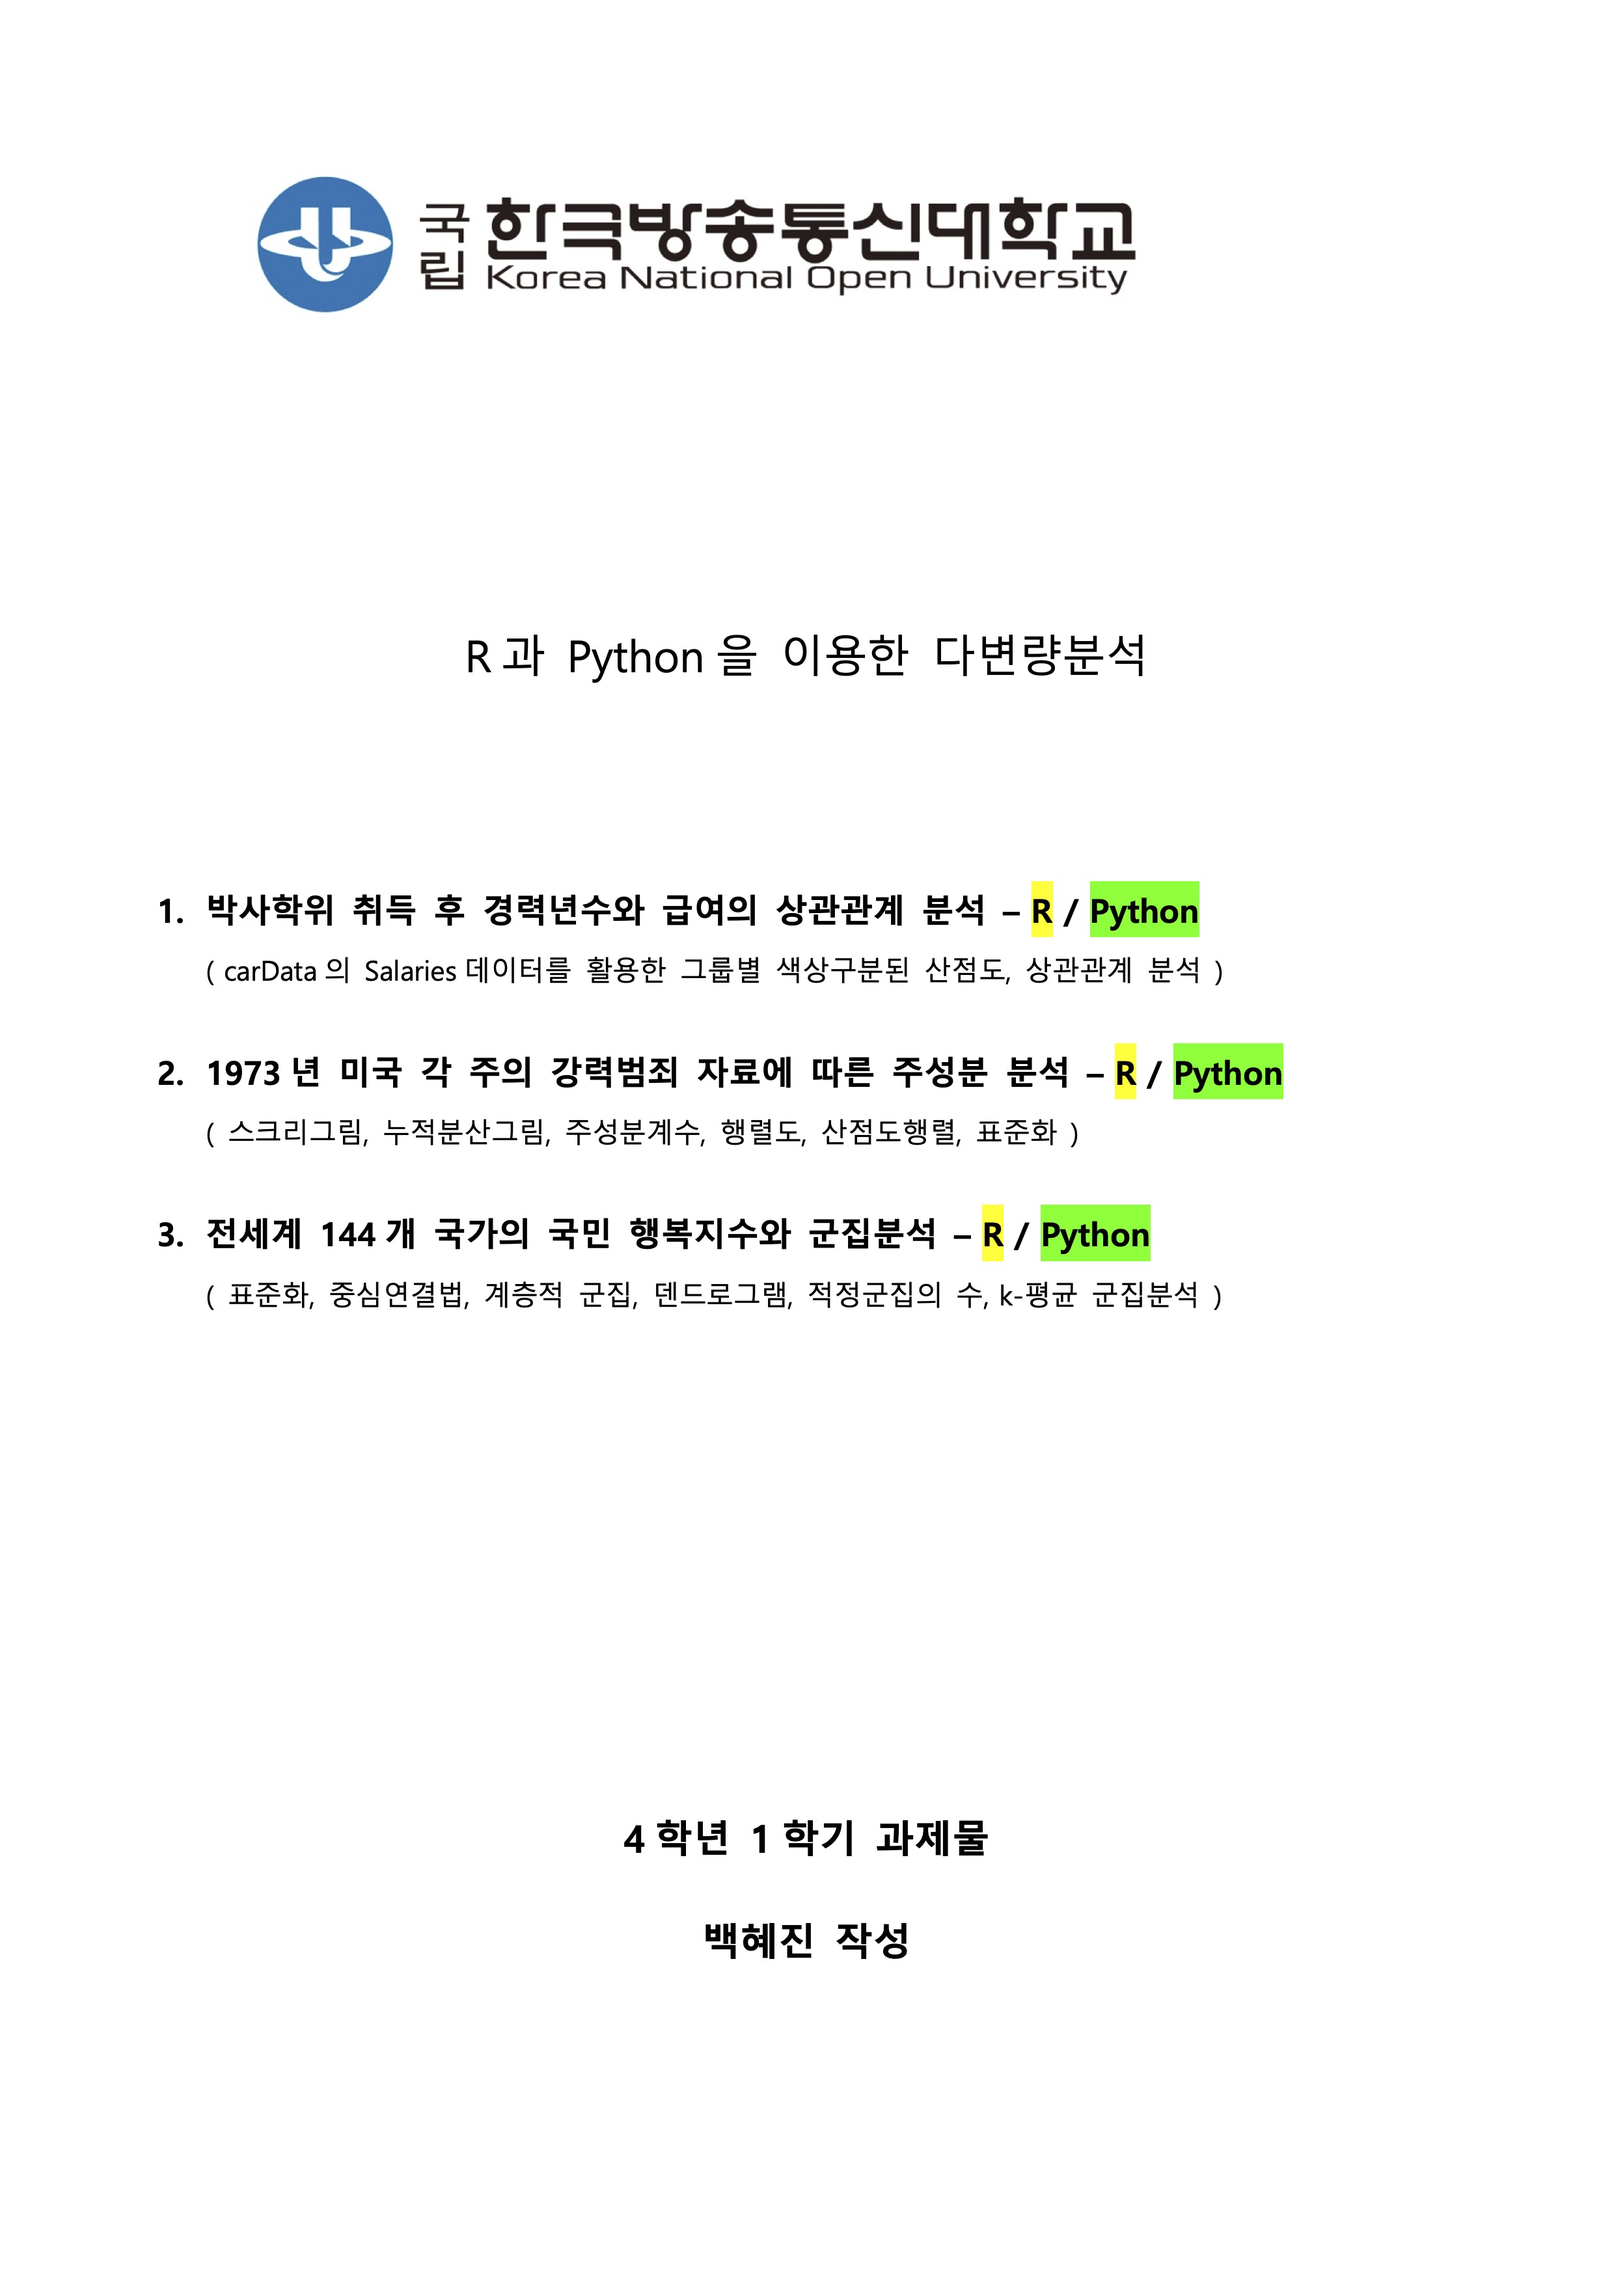
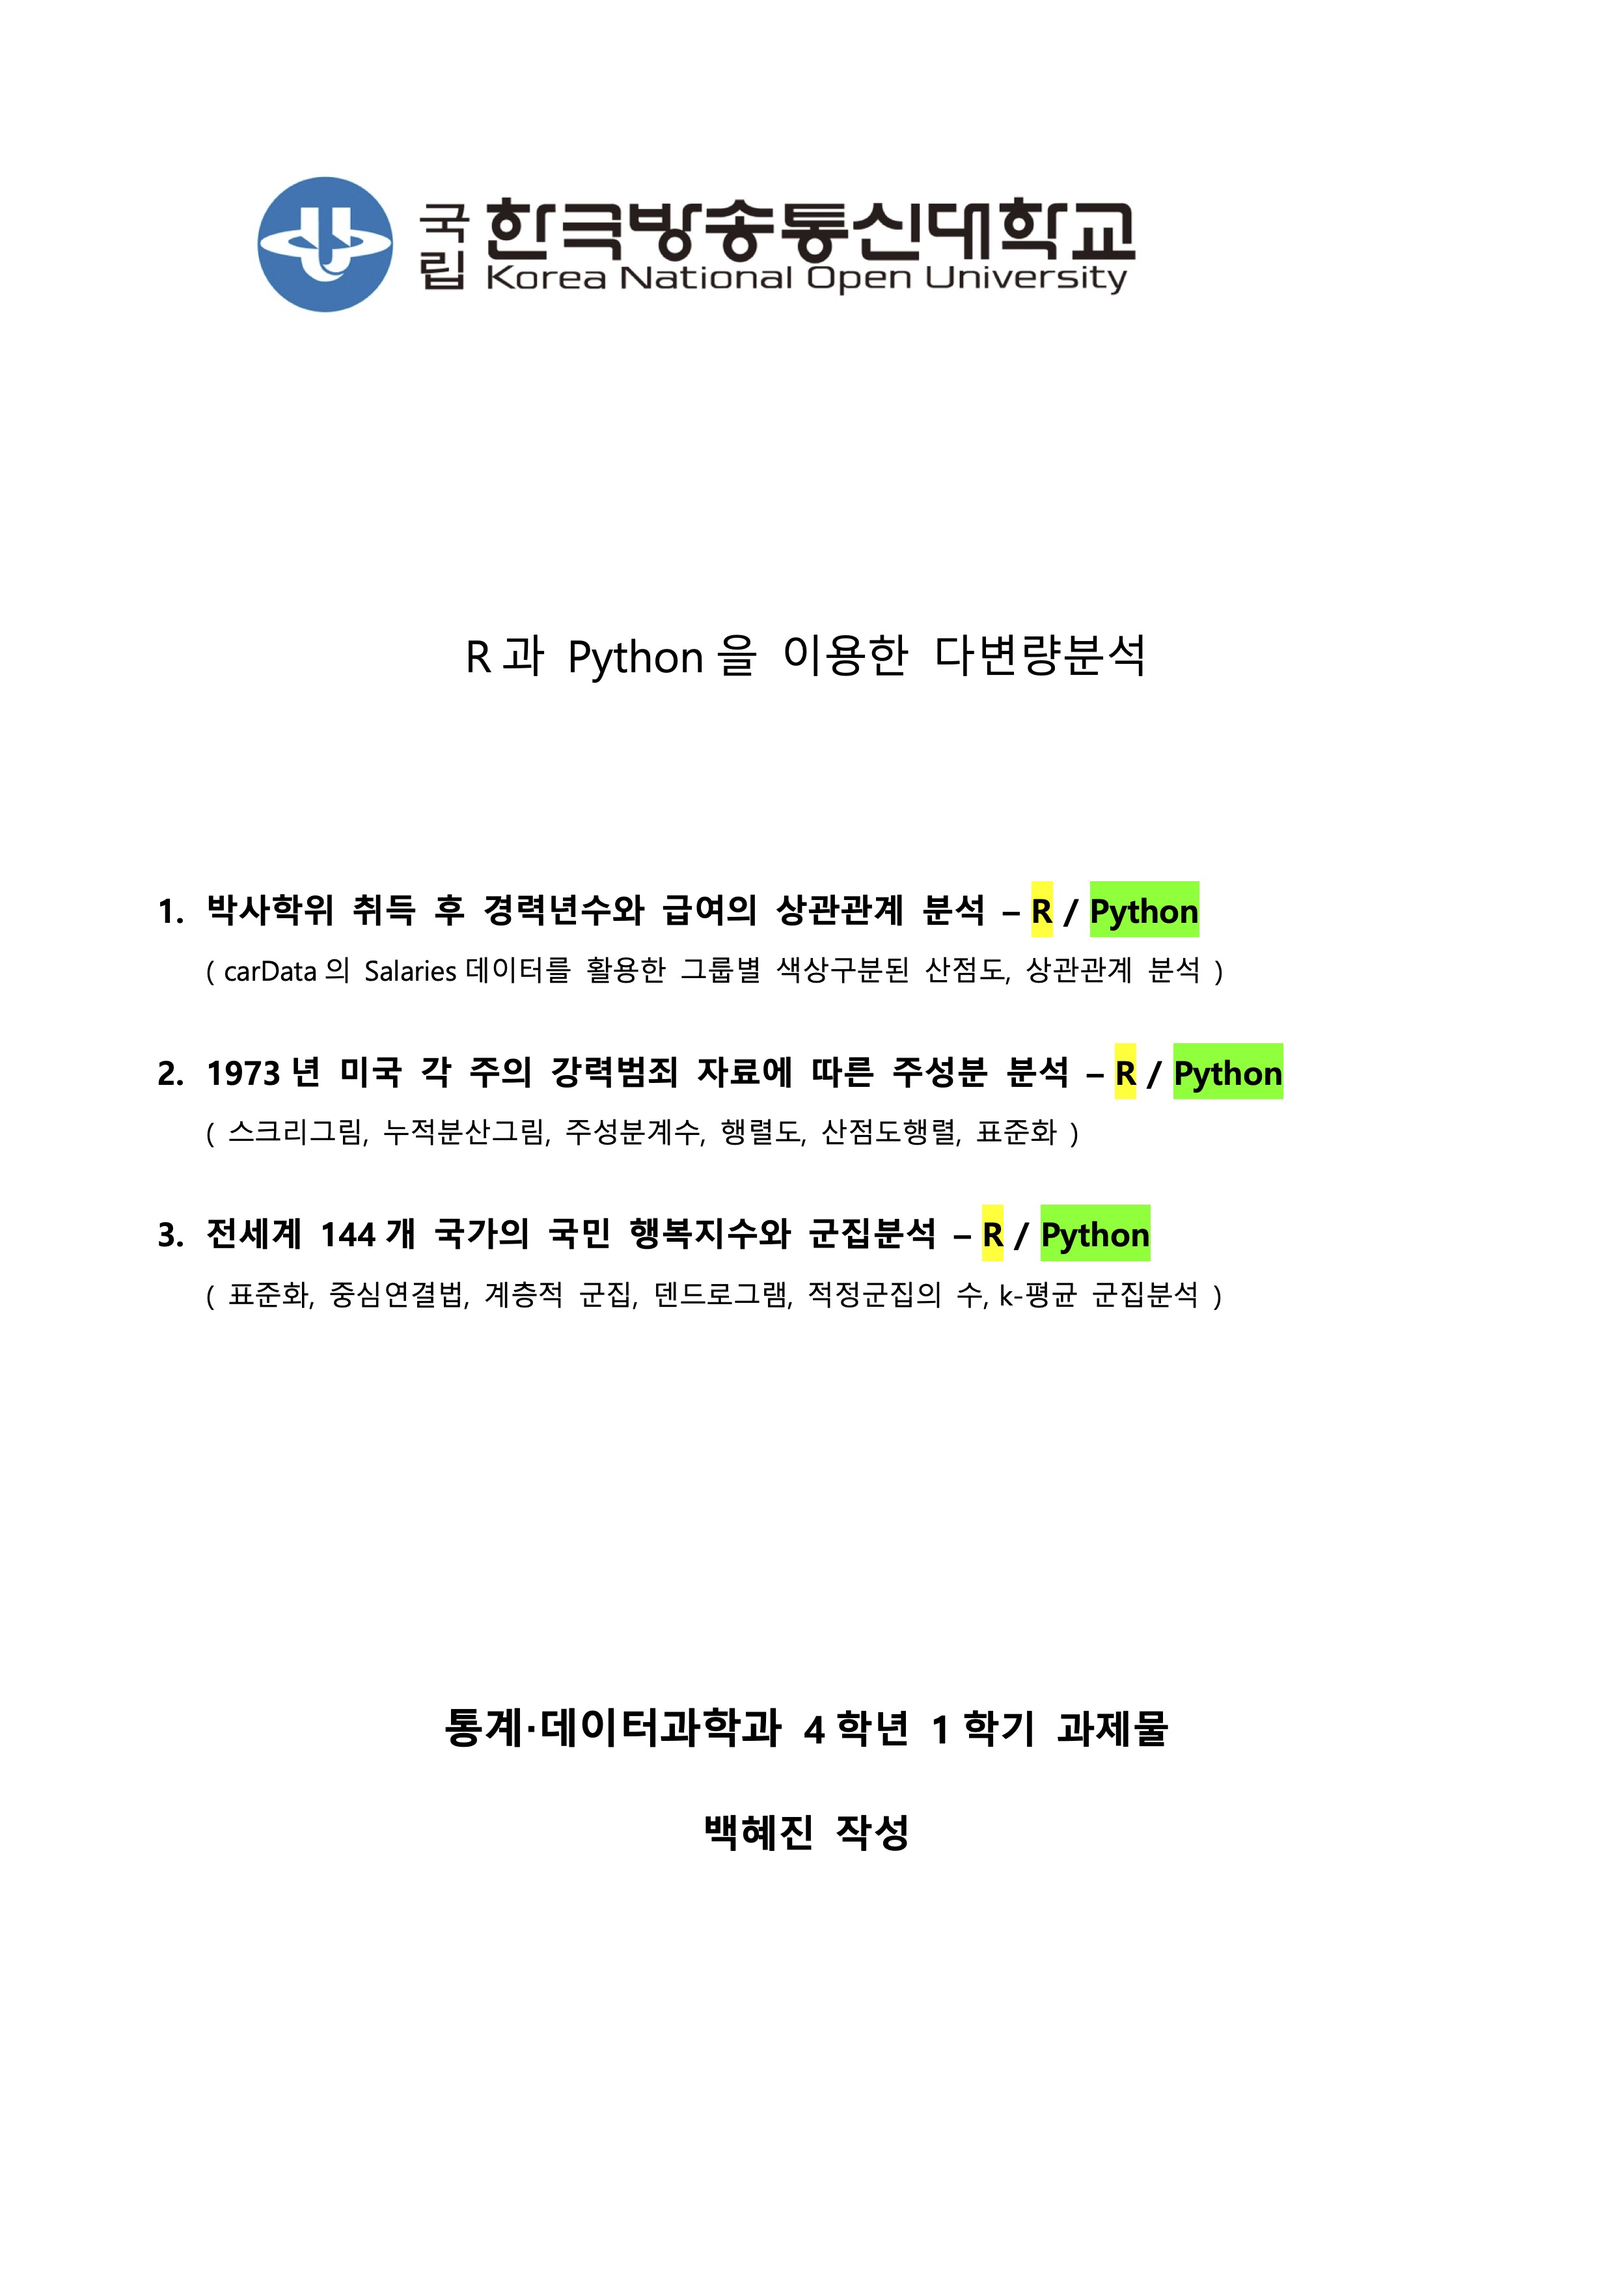
update

Changed region(s): [[0.2794, 0.7457, 0.7141, 0.8079], [0.4347, 0.8389, 0.5589, 0.87]]

diff --git a/index.html b/index.html
@@ -120,10 +120,6 @@
               새로운 고객만족을 위하여
             </h3> -->
             <!-- <img src="assets/me/hyejin.JPG" style="width: 12rem; height: auto;" alt="..."> -->
-
-
-
-
           </div>
           <hr>
           <br>
@@ -133,6 +129,7 @@
             <br>현재 법무법인에서 법률 데이터를 생성하고 처리하며, 고객서비스를 개선하는 업무를 하고있습니다.
             <br>업무 자동화를 넘어 AI 솔루션을 설계하고 기능을 구현하여 새로운 고객 서비스를 제공하고자 합니다.
           </p>
+          
           <br>
           <br>
           <h4  style="color:black" >1. 데이터 민주화(자동화)</h4>
@@ -141,6 +138,7 @@
           <h4  style="color:black">2. 데이터 올라운더</h4>
           <p class="introduce_me" >DW부터 BI 그리고 AI 까지 개선을 위한 INSIGHT를 발굴하기 위해, 무엇이든지 특정 역할에 제한을 두지 않고 활동합니다.</p>
         </div>
+
     </div>
     </section>
     <hr class="m-0" /> 
@@ -412,7 +410,7 @@
                   <strong>R과 Python</strong>
                 </td>
                 <td class="td-content">
-                  [통계·데이터과학과] R과 Python을 이용한 다변량분석 과제물
+                  [통계·데이터과학과] R과 Python을 이용한 다변량분석
                   <div class="d-flex flex-shrink-0 align-items-center">
                     <a href="#knou_1">
                       <strong>자세히 보기</strong>
@@ -749,7 +747,11 @@
             </span>
           </div>
           <br />
-          <p>2024년 4학년 1학기 제출한 개인과제물 / 30점(만점) </p>
+          <div class="d-flex flex-shrink-0 align-items-center">
+            <a href="https://velog.io/@hyejinbeck/R%EA%B3%BC-Python-%EB%8B%A4%EB%B3%80%EB%9F%89%EB%B6%84%EC%84%9D-%EB%B0%95%EC%82%AC%ED%95%99%EC%9C%84-%EC%B7%A8%EB%93%9D-%ED%9B%84%EC%9D%98-%EA%B2%BD%EB%A0%A5%EB%85%84%EC%88%98%EC%99%80-%EA%B8%89%EC%97%AC%EC%9D%98-%EA%B4%80%EA%B3%84%EC%84%B1-%EC%82%B0%EC%A0%90%EB%8F%84-%EA%B7%B8%EB%A3%B9%EB%B3%84-rank-%EC%82%B0%EC%A0%90%EB%8F%84">
+              <strong>과정 블로그</strong>
+            </a>
+          </div>
         </div>
       </section>
       <hr class="m-0" />
@@ -759,14 +761,12 @@
       
       <!-- Resume-->
       <section class="resume-section" id="resume">
-        <div class="resume-section-content">
-          <span>
-            <div>
-              <h1 style="color: black"><strong>감사합니다.</strong></h1>
-            </div>
+        <div class="resume-section-content" style="display: flex; align-items: center;">
+            <img src="assets/me/hyejin.JPG" style="width: 10rem; height: auto;" alt="...">
+            <h1 style="color: black; margin-left: 4rem;"><strong>감사합니다.</strong></h1>
             
-          </span>
-        </section>
+        </div>
+      </section>
         
       
 
